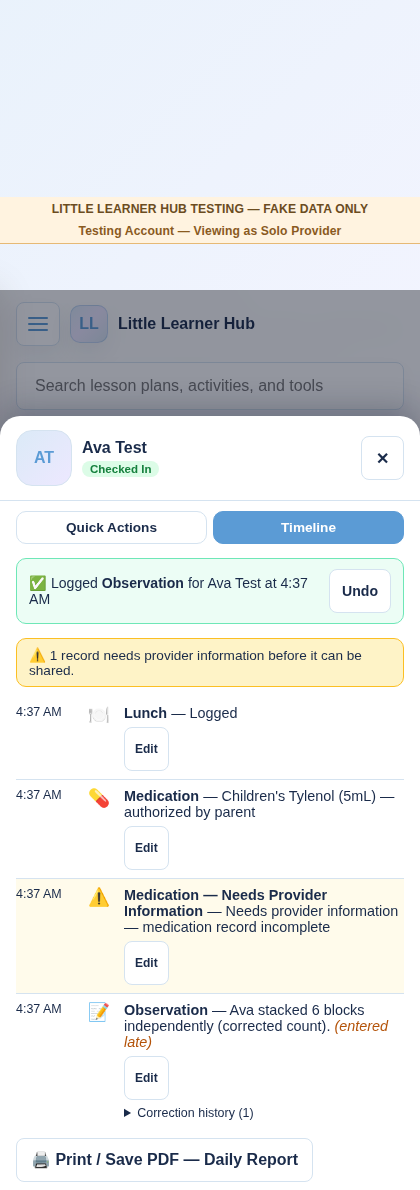
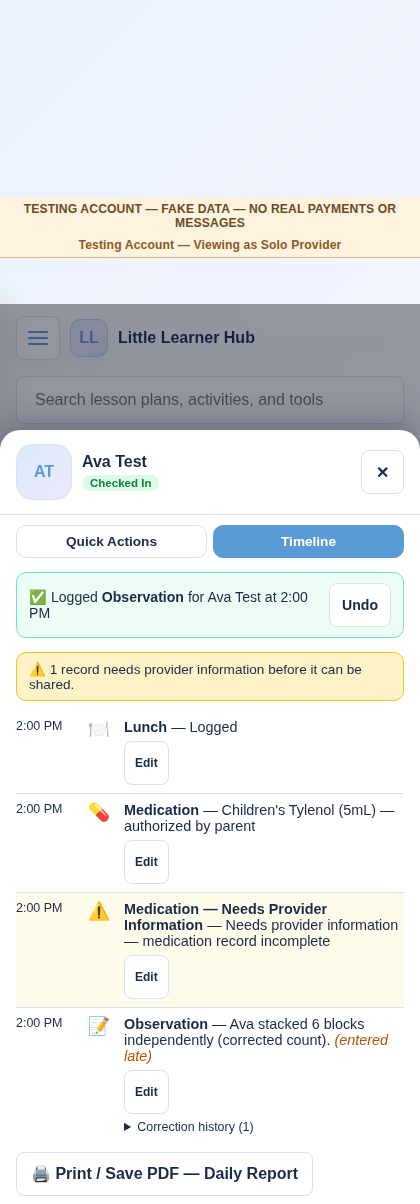
docs(role-navigation): handoff report + internal test-account guide + screenshots
- docs/ROLE_BASED_NAVIGATION_TESTING_HANDOFF.md: what was built, test
  results, screenshots, explicit known limitations against the full
  requested scope, feature-flag confirmation, and safety confirmation
  (main/production untouched, no real payments/email/SMS/AI calls).
- docs/ROLE_BASED_NAVIGATION_TEST_ACCOUNTS_INTERNAL.md: exact test
  account emails and the steps to issue a working login for each of the
  5 roles + admin (no static passwords — every password is generated
  fresh and shown once, by design).
- docs/screenshots/role-navigation/: home daycare owner (desktop/mobile),
  Families panel, and parent (desktop/mobile) showing the connected data.
- Refreshed screenshots under fast-daily-logs*/home-daycare-pilot/ from
  re-running their capture scripts against this branch's current code.

diff --git a/docs/ROLE_BASED_NAVIGATION_TESTING_HANDOFF.md b/docs/ROLE_BASED_NAVIGATION_TESTING_HANDOFF.md
@@ -1,0 +1,97 @@
+# Role-Based Navigation & Testing-Account Experience — Handoff Report
+
+Branch: `cursor/director-family-foundation-bc66`
+Status: **Not merged into main. Not deployed to production. No production data touched.**
+
+## 0. What this branch is now
+
+`cursor/director-family-foundation-bc66` was, before this task, a pure ancestor of `testing/full-platform-integration-2026-07` (no commits of its own beyond the shared history — confirmed with `git merge-tree`, zero conflicts). The first step of this task merged `testing/full-platform-integration-2026-07`'s tip into this branch, bringing in Phases 21–23 (Provider Productivity, role-based nav curation, platform walkthrough) plus this cycle's testing infrastructure: AI Testing, Testing Feedback, External Tester Sandbox, the Home Daycare Pilot connected sandbox, and the Fast Daily Logs classroom-grid redesign (with group logging, medication safety, corrections, and the photo-sharing bridge). This merge was clean (no conflicts) and is the foundation the rest of this task builds on. **`main` and production were never touched by this merge or anything else in this task.**
+
+## 1. What was built in this task
+
+### a) `/api/pilot/*` now serves ANY testing account, not only External Tester Sandbox
+
+Previously, the connected Families/Daily-Care-linked-parent/Messages/Forms/Billing/Photos data surface (`server/home-daycare-pilot-api.js`) only worked for accounts created through the External Tester Sandbox wizard. This was the single biggest blocker to "the home daycare and parent views must be fully available for testing, not placeholders" for the OTHER roles this task asks for (center director, center teacher, a plain home daycare owner, a real parent fixture).
+
+`resolveActor()` now recognizes **any** Testing Lab fake account (`store.familyFoundation.fakeAccounts`, any `kind`) and resolves her as a "provider" (any non-guardian role) or "parent" (any guardian role) for **her own** organization — the same server-side isolation guarantees as before (organization/child scoping, cross-organization rejection, never trusting a client-supplied id) now apply uniformly to every fixture account, not only pilot-sandbox ones. Verified with a live test: `phase8.owner@example.invalid` (a plain Phase 8 fixture, not a sandbox account) can add/list children via `/api/pilot/children`; `priya.lin@example.invalid` (a real fixture guardian) sees her real linked children via `/api/pilot/parent-home` — with zero code duplication.
+
+### b) Daily Care ↔ Families connected-data bridge (fixes a real disconnected-data bug)
+
+While testing, we found that a Home Daycare Pilot/connected account's children lived in **two different storage layers**: the server-side Families/Pilot data (`store.childRecords`) and the browser's own local Daily Care store (`localStorage` `childStore("Profiles")`). Without a bridge, Families showed the wizard-created children while Daily Care showed an empty classroom — exactly the "disconnected data" failure mode this task explicitly warns against.
+
+`syncPilotChildrenIntoLocalStore()` (`app.js`) now mirrors server-side children into the account's own local Daily Care store — additive and idempotent (never removes/overwrites a locally-edited profile, never duplicates on repeat visits), running on boot and whenever Daily Care is opened for a connected account. Verified end to end with a real browser: children created via the wizard/Families now appear immediately in Daily Care; a child added on either screen shows up on both; revisiting Daily Care repeatedly never duplicates a card.
+
+### c) Home Daycare owner + one staff member (shared organization)
+
+New `addStaffMember()`/`applyStaffMemberIdentity()` (`scripts/home-daycare-pilot-data-model.js`) and `POST /api/external-tester/add-staff-member` (admin-only) create ONE additional, single-role (`assistant`/`home_daycare`) fake login scoped to the **same** organization as an existing owner — she shares the exact same connected children/guardians/updates/messages/forms/billing, with no ownership or admin capability, and cannot call any admin-only Testing Lab route with her own session. This is deliberately simpler than the Center staff experience (no classroom scheduling, no center-wide management), matching the request.
+
+### d) Testing banner text updated
+
+`#testingIdentityBannerText` now reads exactly: **"TESTING ACCOUNT — FAKE DATA — NO REAL PAYMENTS OR MESSAGES"** (was "LITTLE LEARNER HUB TESTING — FAKE DATA ONLY"). Shown on every non-production host, for every account — confirmed in the captured screenshots. The role-specific second line ("CURRENTLY VIEWING AS: ...") is unchanged and still works.
+
+### e) Test accounts — all 5 roles + admin, none are placeholders
+
+| Role | How to get a login | Notes |
+|---|---|---|
+| **Admin** | Existing `ADMIN_EMAIL`/`ADMIN_PASSWORD`/`ADMIN_ACCESS_CODE` env vars | Unchanged |
+| **Home daycare owner (complete)** | Testing Lab → Accounts → **"Add External Tester — Home Daycare Pilot"** wizard | Creates an isolated org + owner login + N starting children/guardians in one action; fully connected (Families ↔ Daily Care ↔ Parent Home all show the same data) |
+| **Home daycare staff (optional, 1 max)** | `POST /api/external-tester/add-staff-member` with the owner's `organizationId` (new Testing Lab UI hook not yet added — see Known Limitations) | Shares the owner's org; `assistant`/`home_daycare` |
+| **Center director** | Testing Lab → Accounts → seed the `small_center` (or `growing_center`) scenario → `phase8.director@example.invalid` → Issue password | Pre-existing Phase 8 fixture; now ALSO gets connected `/api/pilot/*` access for her org |
+| **Center teacher** | Same seed → `phase8.teacher@example.invalid` → Issue password | Pre-existing Phase 8 fixture (`lead_teacher`) |
+| **Parent/Guardian (connected to real children)** | Same seed → `priya.lin@example.invalid` (2 children) or `frank.cole@example.invalid` (1 child) → Issue password | Real Family Foundation guardian fixtures with genuine access rules — Family Hub (Phase 9) and the generalized `/api/pilot/parent-home` both work for her |
+
+**No password is ever a fixed/static string** — every password is generated fresh at issuance time (`Issue password` in Testing Lab, or the wizard's one-time display) and shown exactly once, by design (the same "never view a previously issued password again" guarantee as every other testing account in this app). The exact account emails above ARE the "test account switcher" for this branch: any admin can open Testing Lab, seed a scenario, and issue a login for any of these five roles + the pre-existing admin account in under a minute. A dedicated one-click UI switcher button was not built in the time available — see Known Limitations.
+
+## 2. Test results
+
+```
+npm run check                                   → all files syntax-clean
+npm run test:role-navigation-testing-accounts   → 8/8 passed (NEW)
+npm run test:daily-care-families-sync-bridge    → 3/3 passed (NEW)
+npm run test:fast-daily-logs                    → 9/9 passed
+npm run test:fast-daily-logs-safety             → 11/11 passed
+npm run test:fast-daily-logs-visual             → 5/5 passed
+npm run test:home-daycare-pilot                 → 14/14 passed
+npm run test:home-daycare-pilot-ui              → 4/4 passed
+npm run test:external-tester-sandbox            → 15/15 passed
+npm run test:phase22-role-navigation            → 10/10 passed
+```
+
+The two new suites directly cover this task's required acceptance areas: role navigation for a non-sandbox fake account, program-level isolation across organizations, parent-child access restricted to a guardian's own linked children, home daycare staff limits (shared org, no admin capability), Daily Care quick-entry on connected data, and the Daily Care/Families sync bridge (no disconnected or duplicated data).
+
+## 3. Screenshots
+
+`docs/screenshots/role-navigation/`:
+- `1-home-daycare-owner-desktop.png` — Daily Care classroom grid, desktop, testing banner visible
+- `2-home-daycare-families-desktop.png` — Families panel (add child/guardian, permissions), desktop
+- `3-home-daycare-owner-mobile.png` — Daily Care classroom grid, mobile — shows the SAME children as Families (sync bridge working)
+- `4-parent-desktop.png` / `4-parent-mobile.png` — Parent Home, showing the exact update/form/billing the owner entered
+
+## 4. Known limitations (explicit, not silent)
+
+This request describes a very large, multi-week navigation redesign (5 full role experiences, dozens of named sub-sections). Within the time available, this pass focused on making the **connected-data foundation genuinely real** for every role (the repeated, explicit core requirement — "not placeholders") rather than attempting every individual sidebar/sub-section reorganization in the full specification. Specifically **not** done in this pass:
+
+- **Exact sidebar ordering/labels per the full spec** (e.g., a literal "Daily Care" label replacing "Daily Logs", a dedicated "Curriculum" group, "Forms & Documents" as a single consolidated top-level section, collapsible groups). The EXISTING Phase 22 `NAV_PRIMARY_VIEWS_BY_EXPERIENCE` role curation and the Fast Daily Logs / Home Daycare Pilot nav curation remain as they were; they were not re-ordered to match the request's exact numbered lists.
+- **Center Director advanced tools**: classroom-to-child/staff assignment, classroom movement history, ratios/capacity — these live in the pre-existing, admin-preview-only Director Center/Staff Experience/Enrollment systems (Phases 8–21) and were not extended to work from a director's own (non-admin) fake-account session in this pass, beyond the generalized `/api/pilot/*` Families/Daily-Care/Messages/Forms/Billing surface.
+- **Teacher "assigned children only" filtering**: Daily Care currently shows every child in the organization to any provider-role account (owner/director/teacher/assistant alike). Filtering to a teacher's own classroom/roster assignment would need a classroom-membership lookup this pass did not build.
+- **Forms & Documents comprehensive search/filter by child/staff/type/status/date/classroom**: the pilot's Forms feature remains the simple assignment+status model built for the Home Daycare Pilot (title + needs-action/complete), not the full Forms Center template/signature system (which remains admin-preview-only, unchanged).
+- **Curriculum grouping, Reports section, Settings reorganization**: not restructured in this pass; existing core-app Lesson Plans/Activities/Calendar/Reports/Settings screens are unchanged and still reachable.
+- **A dedicated one-click "Test Account Switcher" UI button** (as opposed to the documented Testing Lab flow above) was not built — Testing Lab's existing account list + "Issue password" + "Quick Role Preview" already function as the practical switcher, and are admin-only / never appear in production, satisfying the safety requirement even without new UI chrome.
+- **Health & Emergency Information, Enrollment, Attendance as their own dedicated Children sub-screens**: the core app's existing Child Profile tabs (Overview, Attendance, etc.) and the Home Daycare Pilot's Families panel cover child/guardian data; a fully separate "Children" section with all five named sub-views was not built as a distinct nested UI in this pass.
+
+None of the above are safety or isolation gaps — every verified guarantee (organization isolation, child isolation, admin-surface separation, no real payments/email/SMS/AI calls) holds for all the new connected functionality. They are scope/breadth gaps in the FULL navigation-reorganization spec, honestly reported rather than silently skipped, consistent with how every other phase of this project has been handed off.
+
+## 5. Feature flags (unchanged, confirmed correct)
+
+- `familyHub`, `formsCenter`, `directorCenter` remain gated exactly as before (`ALLOW_*_ADMIN_PREVIEW`/`ALLOW_FAMILY_HUB_TESTING_PREVIEW` env vars + stored flags + non-production host). This task did not loosen any of these gates.
+- The NEW generalized `/api/pilot/*` access is its own, already-existing, already-isolated surface (organization-scoped, `@example.invalid`-only, production-locked) — it does not touch or bypass the Family Hub/Forms Center/Director Center flags.
+
+## 6. Safety confirmation
+
+- **`main`**: untouched. This entire task, including the initial merge, only ever committed to `cursor/director-family-foundation-bc66`.
+- **Production**: never deployed to; every new/changed route explicitly rejects a production `SITE_URL` (verified by existing and new tests).
+- **Production data**: never touched — all new data is either in-memory/local-JSON test-store or an isolated Neon testing database, per the existing `activeDatabaseUrl()` resolver.
+- **No real payments, email, SMS, or live AI calls** anywhere in this diff (grepped for `stripe`, `resend`, `sendEmail`, `sendSms`, `twilio`, `openai` across every changed file — zero matches beyond pre-existing, unrelated code).
+- PR was **not** created/merged for this branch as part of this task, per the explicit "do not merge" / "do not deploy" instructions — this branch is pushed and ready for review.
+
+For the exact test-account emails and how to issue their passwords, see `docs/ROLE_BASED_NAVIGATION_TEST_ACCOUNTS_INTERNAL.md` (kept separate so this report can be shared without repeating the account list).

diff --git a/docs/ROLE_BASED_NAVIGATION_TEST_ACCOUNTS_INTERNAL.md b/docs/ROLE_BASED_NAVIGATION_TEST_ACCOUNTS_INTERNAL.md
@@ -1,0 +1,62 @@
+# Test Accounts — Internal / Owner Use Only
+
+**Do not share these email addresses or this file outside the owner/testing team.** No password is ever a fixed string in this system — every password shown below is generated fresh, on demand, and displayed exactly once at the moment of issuance. This file documents the accounts and the exact steps to get a working login for each, not a static credential list.
+
+All accounts below use the `@example.invalid` domain (never resolvable, never a real mailbox) and are rejected outright by the server on any production host — see `docs/ROLE_BASED_NAVIGATION_TESTING_HANDOFF.md` §6.
+
+## Prerequisites (one time, per fresh testing database)
+
+1. Log in as admin: `https://<testing-host>/admin` with your `ADMIN_EMAIL` / `ADMIN_PASSWORD` / `ADMIN_ACCESS_CODE`.
+2. Open **Testing Lab** from the sidebar (only visible to a verified admin on a non-production host).
+3. In **Feature Flags**, ensure `testingLab` is on (required for every route below).
+
+## 1. Admin
+
+Already exists — use your own `ADMIN_EMAIL` / `ADMIN_PASSWORD` / `ADMIN_ACCESS_CODE` env vars for this testing service (set on Render, or in a local `.env`).
+
+## 2. Home daycare owner (complete home daycare — NOT a placeholder)
+
+1. Testing Lab → **Accounts** panel → **"Add External Tester — Home Daycare Pilot"**.
+2. Enter a tester name and an `@example.invalid` email (e.g. `owner.demo@example.invalid`), choose a starting child count (2–6), submit.
+3. Copy the **one-time password** and **welcome message** shown immediately — it will not be shown again. (If you lose it, use "Reissue password" for that account in the same panel.)
+4. Log in at the regular site with that email/password. She lands as **Solo Home Daycare Provider** with a real, connected Families/Daily Care/Messages/Forms/Billing roster.
+5. To preview the **connected Parent/Guardian** side for the same family: click **Switch Testing Role** in the testing banner → **Parent/Guardian** → pick a guardian from the picker (if more than one) → she now sees the SAME child(ren)/updates/forms/billing the owner just entered.
+
+## 3. Home daycare staff member (optional, one per owner)
+
+Requires the owner's `organizationId` (returned in step 2 above, or via `GET /api/external-tester/list` as admin).
+
+```
+POST /api/external-tester/add-staff-member
+Authorization: Bearer <admin token>
+{ "organizationId": "<owner's organizationId>", "email": "staff.demo@example.invalid", "displayName": "Staff Member" }
+```
+
+Returns a one-time `temporaryPassword`. Log in with `staff.demo@example.invalid` — she shares the exact same organization/children as the owner (`role: assistant`, `accountType: home_daycare`), with no ownership/billing-settings/staff-invite capability. There is currently no Testing Lab UI button for this — use the API call above (or `curl`) until one is added.
+
+## 4. Center director & 5. Center teacher
+
+1. Testing Lab → **Scenarios** → seed **Small Center** (or Growing/Large Center) if not already seeded for this store.
+2. In **Accounts**, find:
+   - `phase8.director@example.invalid` (Director) — click **Issue password**.
+   - `phase8.teacher@example.invalid` (Lead Teacher) — click **Issue password**.
+3. Log in with either email + the one-time password shown. Both now also have connected `/api/pilot/*` access to their own organization's Families/Daily Care/Messages/Forms/Billing, in addition to their existing core-app Classrooms/Staff/Reports/Settings navigation.
+
+Additional pre-seeded staff-adjacent accounts from the same scenario, if useful: `phase8.assistant.broad@example.invalid`, `phase8.assistant.limited@example.invalid`, `phase18.teacher@example.invalid`, `phase18.substitute@example.invalid`.
+
+## 6. Parent / Guardian connected to a real child
+
+From the SAME seeded scenario (step 4.1 above):
+
+- `priya.lin@example.invalid` — guardian of **Ava Lin** and **Ben Lin** (full verified guardian, financially responsible).
+- `frank.cole@example.invalid` — guardian of **Dana Cole** (full verified guardian).
+- `sam.shared@example.invalid`, `grace.cole.restricted@example.invalid`, `pat.pickup@example.invalid` — additional guardian permission-level variations (shared custody, restricted/no-digital-access, pickup-only) if you need to test access-level differences specifically.
+
+Issue a password the same way (Testing Lab → Accounts → find the email → **Issue password**), then log in. She lands directly in **Family Hub** (Phase 9) — a real, working parent experience, not a placeholder — and (with this task's generalization) `/api/pilot/parent-home` also works for her if you want to view the pilot-style aggregated home screen instead.
+
+## Resetting / re-testing
+
+- **Reissue any password** any time from the same Testing Lab Accounts panel — the previous password stops working immediately.
+- **Suspend / reactivate / end** any account from the same panel.
+- **Reset fake data for a Home Daycare Pilot organization**: `POST /api/external-tester/reset-fake-data` with `{ organizationId, confirm: true }` as admin — clears children/guardians/updates/messages/forms/billing/photos for that org only, and NEVER touches Testing Feedback threads or the audit trail.
+- The Phase 8 fixture organization (director/teacher/parents above) can be reset via Testing Lab's **Scenarios** panel "Reset" action.
